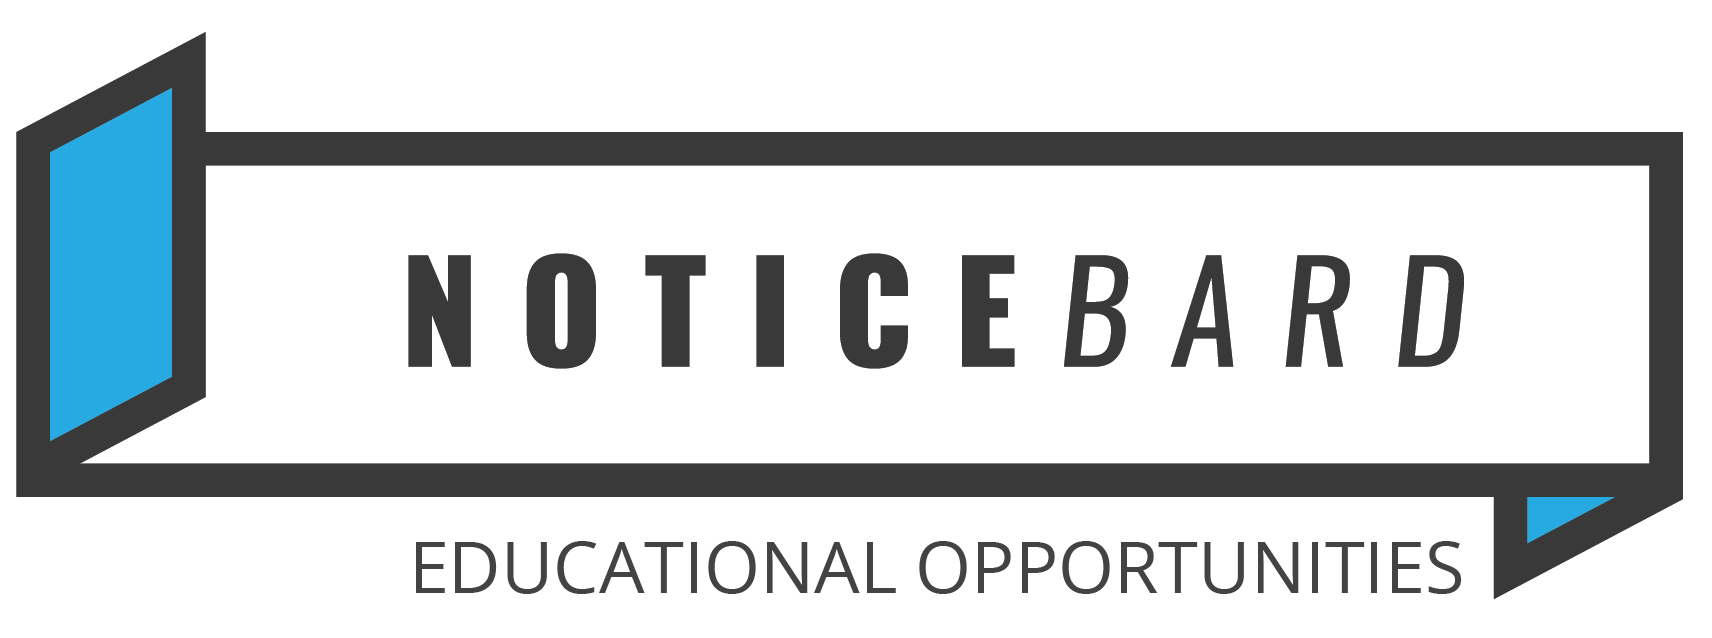
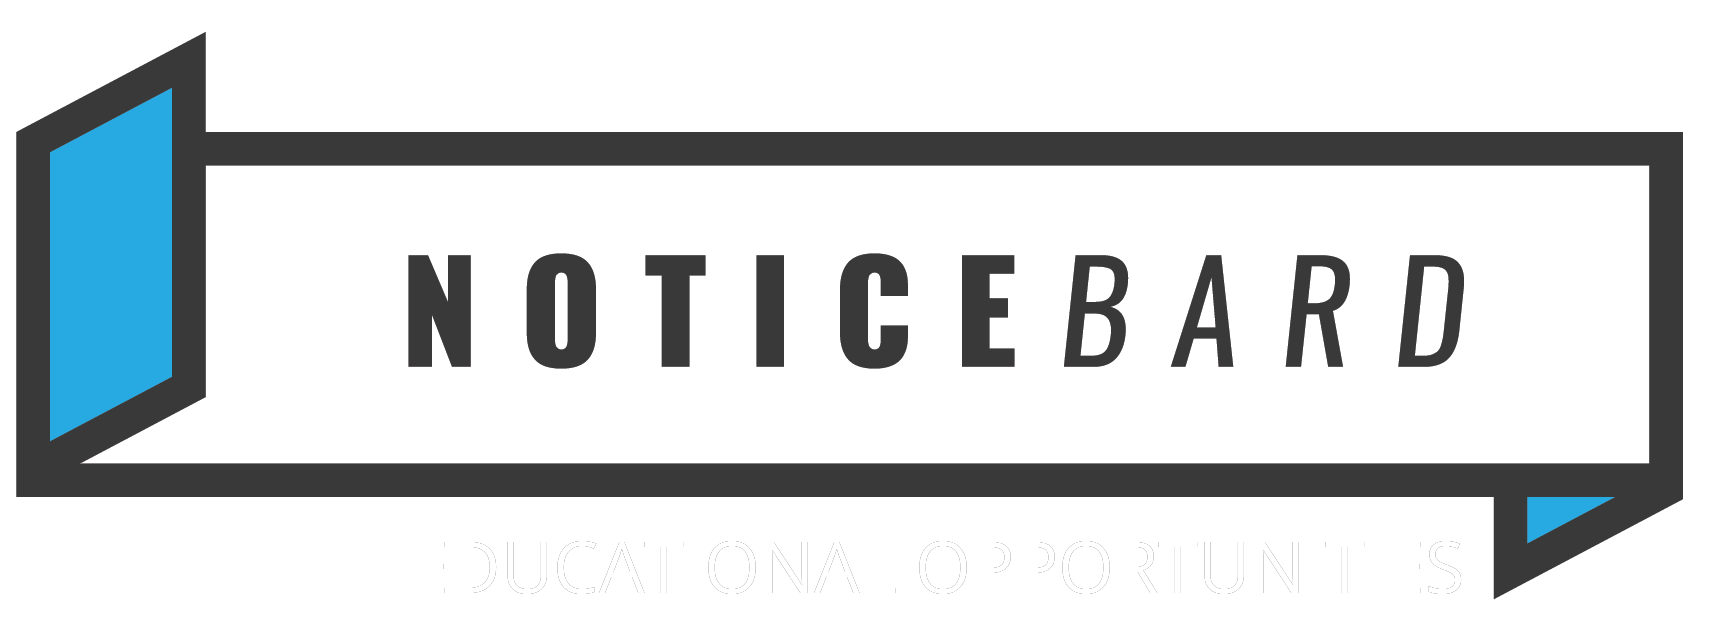
Add Sponsors | Tweetbeam, Codechef, Noticebard, Egghead (#89)
* Add Codechef, Noticebard, tweetbeam

* Add Dark Theme Logos | Egghead, Noticebard, Tweetbeam

* Update Tweetbeab href

Changed region(s): [[0.2167, 0.8339, 0.8668, 0.953]]

diff --git a/src/screens/LandingScreen/SponsorsSection.js b/src/screens/LandingScreen/SponsorsSection.js
@@ -123,7 +123,7 @@ const SponsorsSection = () => {
         <Grid
           columns={[1, 1]}
           gap={6}
-          sx={{ alignItems: 'center', mt: 5 }}
+          sx={{ alignItems: 'center', mt: 6 }}
         >
           <Link
             href="https://www.sashido.io/en/"
@@ -175,6 +175,20 @@ const SponsorsSection = () => {
           gap={6}
           sx={{ alignItems: 'center', mt: 4 }}
         >
+          <Link
+            href="https://www.codechef.com/"
+            target="_blank"
+            rel="noreferrer"
+            sx={{ justifySelf: 'center' }}
+          >
+            <Image
+              src="/images/codechef.png"
+              alt="CodeChef Logo"
+              sx={{
+                maxHeight: '4rem'
+              }}
+            />
+          </Link>
 
           <Link
             href="https://matic.network/"
@@ -203,29 +217,28 @@ const SponsorsSection = () => {
               }}
             />
           </Link>
-
-          <Link
-            href="https://tezos.com/"
-            target="_blank"
-            rel="noreferrer"
-            sx={{ justifySelf: 'center' }}
-          >
-            <Image
-              src="/images/tezos.png"
-              alt="Tezos Logo"
-              sx={{
-                maxHeight: '15rem'
-              }}
-            />
-          </Link>
-          
         </Grid>
 
         <Grid
-          columns={[1, 1]}
-          gap={6}
+          columns={[1, 2]}
+          gap={[6, 3]}
           sx={{ alignItems: 'center', mt: [6, 5] }}
           >
+            <Link
+              href="https://tezos.com/"
+              target="_blank"
+              rel="noreferrer"
+              sx={{ justifySelf: 'center' }}
+            >
+              <Image
+                src="/images/tezos.png"
+                alt="Tezos Logo"
+                sx={{
+                  maxHeight: '6rem'
+                }}
+              />
+            </Link>
+
             <Link
               href="https://www.wolfram.com/language/"
               target="_blank"
@@ -308,20 +321,20 @@ const SponsorsSection = () => {
             />
           </Link>
 
-          {/* <Link
+          <Link
             href="https://egghead.io/"
             target="_blank"
             rel="noreferrer"
             sx={{ justifySelf: 'center' }}
           >
             <Image
-              src="/images/egghead2.png"
+              src="/images/egghead.png"
               alt="Egghead Logo"
               sx={{
                 maxHeight: '15rem'
               }}
             />
-          </Link> */}
+          </Link>
           <Link
               href="https://get.interviewready.io/"
               target="_blank"
@@ -366,28 +379,28 @@ const SponsorsSection = () => {
               }}
             />
           </Link>
-
-          <Link
-              href="https://www.taskade.com/"
-              target="_blank"
-              rel="noreferrer"
-              sx={{ justifySelf: 'center' }}
-            >
-              <Image
-                src="/images/taskade.png"
-                alt="Taskade Logo"
-                sx={{
-                  maxHeight: '6rem'
-                }}
-              />
-            </Link>
         </Grid>
 
         <Grid
-          columns={[1, 1]}
+          columns={[1, 2]}
           gap={6}
-          sx={{ alignItems: 'center', mt: [5, 6] }}
+          sx={{ alignItems: 'center', mt: 6 }}
         >
+          <Link
+            href="https://www.taskade.com/"
+            target="_blank"
+            rel="noreferrer"
+            sx={{ justifySelf: 'center' }}
+          >
+            <Image
+              src="/images/taskade.png"
+              alt="Taskade Logo"
+              sx={{
+                maxHeight: '6rem'
+              }}
+            />
+          </Link>
+
           <Link
               href="https://www.voiceflow.com/"
               target="_blank"
@@ -405,7 +418,60 @@ const SponsorsSection = () => {
         </Grid>
         </Container>
 
-        {/* <Container sx={{mt: [5, 6], mb: [2, 5]}}>
+        <Container sx={{mt: [5, 6], mb: [2, 5]}}>
+          <Heading
+            as="h4"
+            variant="title"
+            sx={{ textAlign: 'center', marginBottom: '1rem',}}
+            style={{
+              backgroundImage: 'linear-gradient(315deg, #ef5734 0%, #ffcc2f 74%)',
+              backgroundColor: '#ef5734',
+              width: 'fit-content',
+              margin: '0 auto',
+              padding: '0 1rem',
+              paddingBottom: '5px',
+              borderRadius: '10px'
+              }}
+          >
+            <Text
+              as="span"
+              sx={{
+                borderRadius: 'default',
+                px: 1,
+                mx: [-2, 0],
+                whiteSpace: 'nowrap',
+                color: '#5d114c',
+                fontSize: ['40px', '50px']
+              }}
+              
+            >
+              Special Mention
+            </Text>
+          </Heading>
+          <Grid
+            columns={[1, 1]}
+            gap={6}
+            sx={{ alignItems: 'center', mt: 4 }}
+          >
+            <Link
+              href="https://www.tweetbeam.com/"
+              target="_blank"
+              rel="noreferrer"
+              sx={{ justifySelf: 'center' }}
+            >
+              <Image
+                src="/images/tweetbeam.png"
+                alt="Tweetbeam logo"
+                sx={{
+                  maxHeight: '10rem'
+                }}
+              />
+            </Link>
+            
+          </Grid>
+          </Container>
+
+        <Container sx={{mt: [5, 6], mb: [2, 5]}}>
         <Heading
           as="h4"
           variant="title"
@@ -456,7 +522,7 @@ const SponsorsSection = () => {
           </Link>
           
         </Grid>
-        </Container> */}
+        </Container>
         
       </Container>
     </Box>
